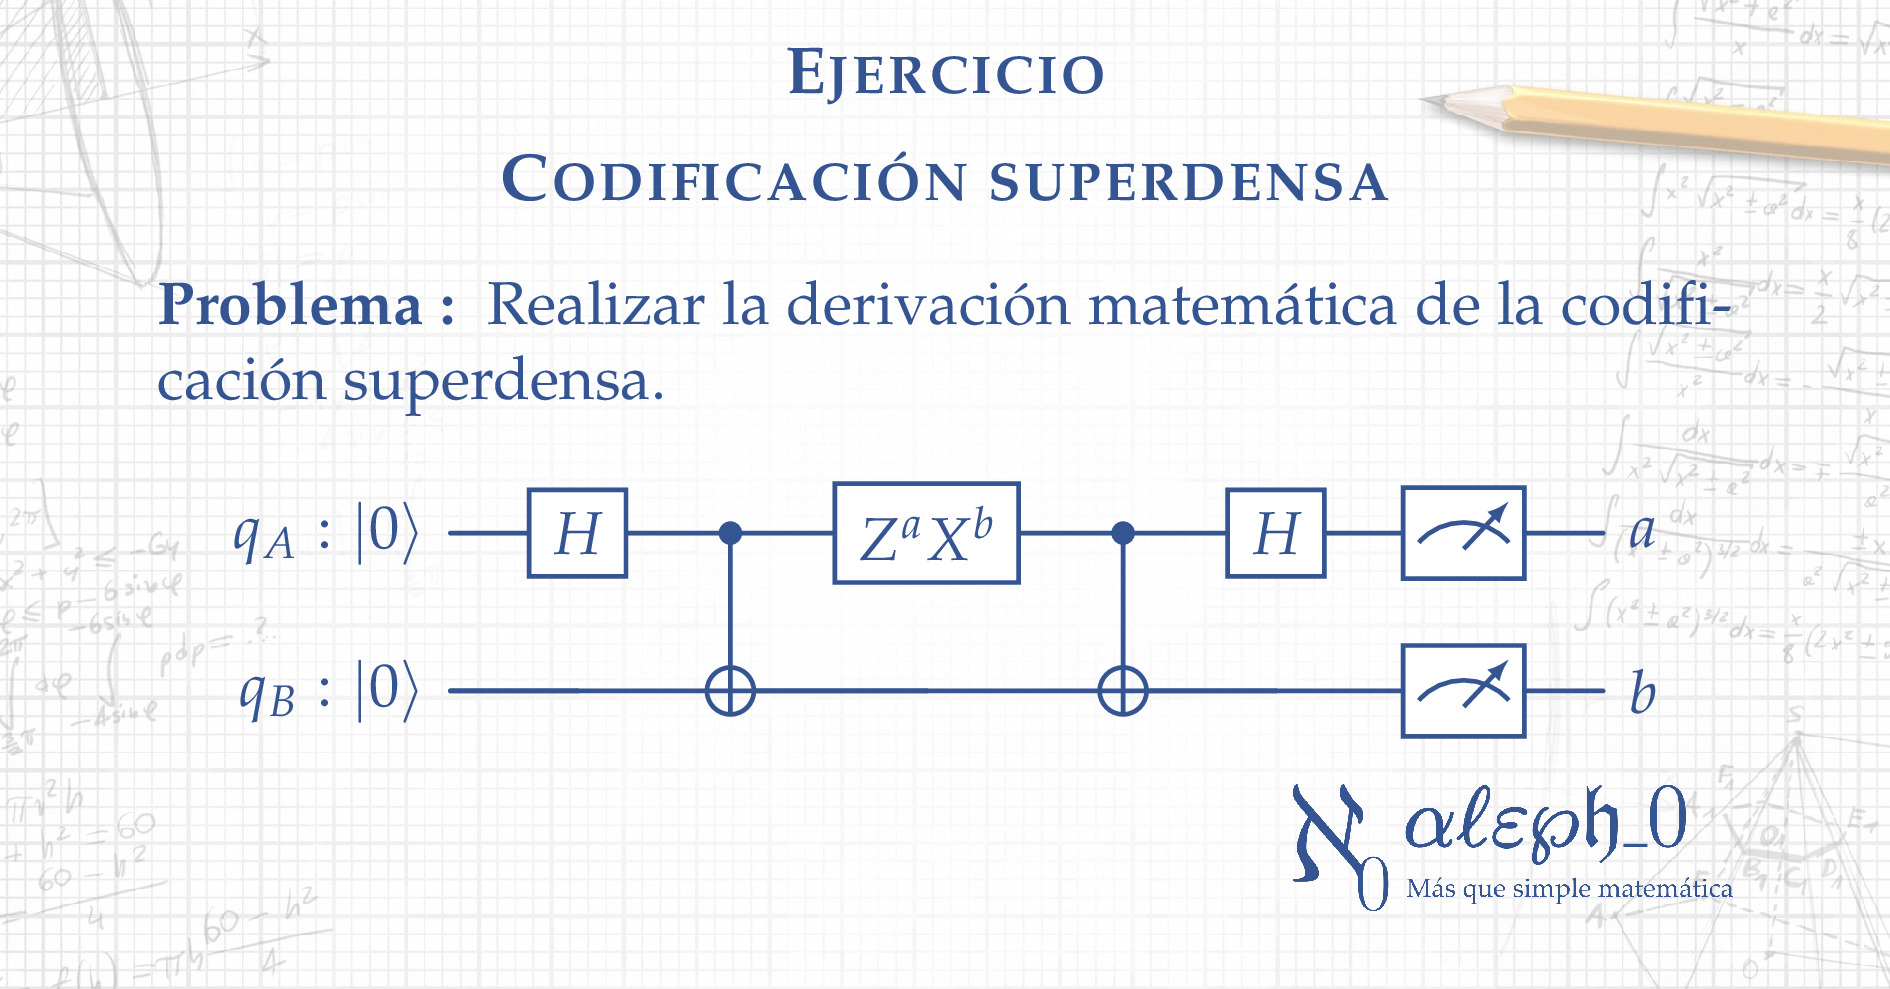
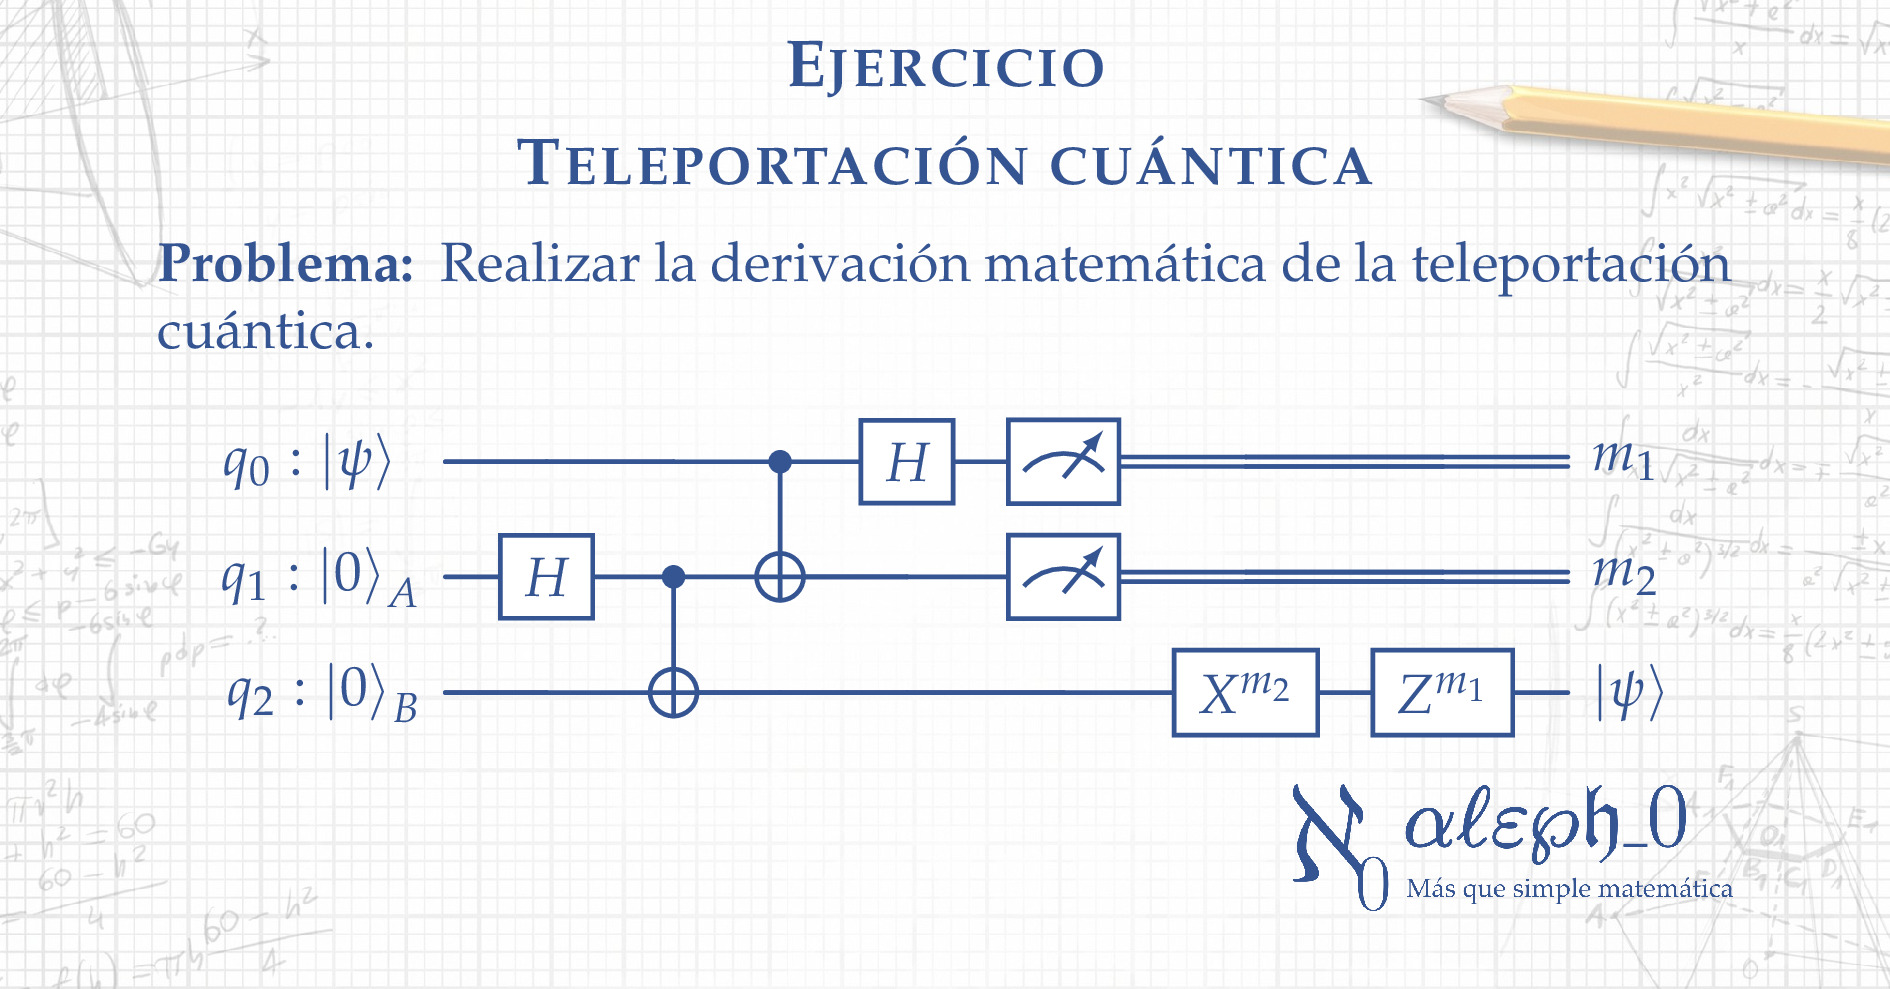
agrega post de teleportacion cuántica

diff --git a/CompCuantica/CC02Teleportacion.tex b/CompCuantica/CC02Teleportacion.tex
@@ -1,0 +1,191 @@
+\documentclass[a4,10pt]{aleph-notas}
+
+% -- Paquetes adicionales
+\usepackage{enumitem}
+\usepackage{aleph-comandos}
+\usepackage{quantikz}
+
+% -- Datos
+\institucion{Proyecto Alephsub0}
+\asignatura{Computación Cuántica}
+\tema{Teleportación cuántica}
+\autor{Andrés Merino}
+\fecha{Julio 2026}
+
+\fuente{montserrat}
+\logouno[4.5cm]{Logos/LogoAlephsub0-02}
+\definecolor{colordef}{cmyk}{0.81,0.62,0.00,0.22}
+
+% -- Comandos adicionales
+\newtheorem*{prob}{Problema}
+    \tcolorboxenvironment{prob}{%
+        color=colordef,recuadrost,colback=colordef!7,drop fuzzy shadow
+    }
+
+\begin{document}
+
+
+\encabezado
+
+La teleportación cuántica es un protocolo que permite transferir un estado
+cuántico desconocido desde un cúbit de Alice hacia un cúbit de Bob,
+utilizando un par entrelazado compartido y el envío de dos bits de
+información clásica.
+
+La idea es:
+\begin{itemize}
+    \item Alice posee un cúbit en el estado desconocido
+    \[
+        \ket{\psi}=\alpha\ket{0}+\beta\ket{1},
+        \qquad
+        |\alpha|^2+|\beta|^2=1.
+    \]
+    \item Alice y Bob comparten previamente un par entrelazado. Alice conserva
+    uno de los cúbits del par y Bob conserva el otro.
+    \item Alice aplica operaciones sobre su cúbit original y sobre su parte del
+    par entrelazado, y luego mide ambos cúbits.
+    \item Alice envía a Bob los dos bits clásicos obtenidos en la medición.
+    \item Bob aplica correcciones condicionadas por esos bits y recupera el
+    estado original \(\ket{\psi}\).
+\end{itemize}
+
+El circuito de teleportación cuántica es:
+\begin{center}
+    \includegraphics[width=0.75\textwidth]{imagen.png}
+\end{center}
+
+\begin{prob}
+    Realizar la derivación matemática de la teleportación cuántica.
+\end{prob}
+
+\begin{proof}
+    Sean \(q_0\), \(q_1\) y \(q_2\) los cúbits del circuito. El cúbit \(q_0\) contiene el estado desconocido que se desea teleportar:
+    \[
+        \ket{\psi}=\alpha\ket{0}+\beta\ket{1},
+    \]
+    donde
+    \[
+        |\alpha|^2+|\beta|^2=1.
+    \]
+    Los cúbits \(q_1\) y \(q_2\) se encuentran inicialmente en el estado \(\ket{0}\). Por tanto, el estado inicial del sistema es
+    \[
+        \ket{\Psi_0}=\ket{\psi}\ket{00}=\left(\alpha\ket{0}+\beta\ket{1}\right)\ket{00}.
+    \]
+    Alice posee los cúbits \(q_0\) y \(q_1\), mientras que Bob posee el cúbit \(q_2\).
+
+    Consideremos los siguientes pasos del circuito:
+    \begin{center}
+        \includegraphics[width=0.8\textwidth]{imagen2.png}
+    \end{center}
+
+    \begin{itemize}
+        \item \textbf{Paso 1.} Se aplica la compuerta Hadamard al cúbit \(q_1\):
+        \[
+            \ket{\Psi_1}=(I\otimes H\otimes I)\ket{\Psi_0}.
+        \]
+        Como
+        $
+            H\ket{0}=\frac{1}{\sqrt{2}}\left(\ket{0}+\ket{1}\right),
+        $
+        se obtiene
+        \begin{align*}
+            \ket{\Psi_1}
+            &=\left(\alpha\ket{0}+\beta\ket{1}\right)\otimes\frac{1}{\sqrt{2}}\left(\ket{0}+\ket{1}\right)\otimes\ket{0}\\
+            &=\frac{1}{\sqrt{2}}\left(\alpha\ket{000}+\alpha\ket{010}+\beta\ket{100}+\beta\ket{110}\right).
+        \end{align*}
+
+        \item \textbf{Paso 2.} Se aplica una compuerta CNOT, utilizando \(q_1\) como control y \(q_2\) como objetivo:
+        \[
+            \ket{\Psi_2}=\operatorname{CNOT}_{1,2}\ket{\Psi_1}.
+        \]
+        Por tanto,
+        \[
+            \ket{\Psi_2}=\frac{1}{\sqrt{2}}\left(\alpha\ket{000}+\alpha\ket{011}+\beta\ket{100}+\beta\ket{111}\right).
+        \]
+        El segundo cúbit se entrega a Alice y el tercero a Bob.
+
+        \item \textbf{Paso 3.} Alice aplica una compuerta CNOT, utilizando \(q_0\) como control y \(q_1\) como objetivo:
+        \[
+            \ket{\Psi_3}=\operatorname{CNOT}_{0,1}\ket{\Psi_2}.
+        \]
+        En consecuencia,
+        \[
+            \ket{\Psi_3}=\frac{1}{\sqrt{2}}\left(\alpha\ket{000}+\alpha\ket{011}+\beta\ket{110}+\beta\ket{101}\right).
+        \]
+
+        \item \textbf{Paso 4.} Alice aplica la compuerta Hadamard al cúbit \(q_0\):
+        \[
+            \ket{\Psi_4}=(H\otimes I\otimes I)\ket{\Psi_3}.
+        \]
+        Usando que
+        $
+            H\ket{0}=\frac{\ket{0}+\ket{1}}{\sqrt{2}},
+            $ $H\ket{1}=\frac{\ket{0}-\ket{1}}{\sqrt{2}},
+        $
+        se obtiene
+        \begin{align*}
+            \ket{\Psi_4}=\frac{1}{2}\big(&\alpha\ket{000}+\alpha\ket{100}+\alpha\ket{011}+\alpha\ket{111}\\
+            &+\beta\ket{010}-\beta\ket{110}+\beta\ket{001}-\beta\ket{101}\big).
+        \end{align*}
+        Agrupando los términos de acuerdo con los dos primeros cúbits,
+        \begin{align*}
+            \ket{\Psi_4}=\frac{1}{2}\big(&\ket{00}\left(\alpha\ket{0}+\beta\ket{1}\right)+\ket{01}\left(\alpha\ket{1}+\beta\ket{0}\right)\\
+            &+\ket{10}\left(\alpha\ket{0}-\beta\ket{1}\right)+\ket{11}\left(\alpha\ket{1}-\beta\ket{0}\right)\big).
+        \end{align*}
+        Utilizando las compuertas de Pauli, esta expresión puede escribirse como
+        \[
+            \ket{\Psi_4}=\frac{1}{2}\big(\ket{00}\ket{\psi}+\ket{01}X\ket{\psi}+\ket{10}Z\ket{\psi}+\ket{11}XZ\ket{\psi}\big).
+        \]
+
+        \item \textbf{Paso 5.} Alice mide los cúbits \(q_0\) u $q_1$ en la base computacional y obtiene los bits clásicos \(m_1,m_2\in\{0,1\}\).
+
+        Después de las mediciones, el cúbit \(q_2\) de Bob se encuentra en uno de los siguientes estados:
+        \[
+            \begin{array}{c|c}
+                m_1m_2 & \text{Estado del cúbit }q_2\\
+                \hline
+                00 & \ket{\psi}\\
+                01 & X\ket{\psi}\\
+                10 & Z\ket{\psi}\\
+                11 & XZ\ket{\psi}
+            \end{array}
+        \]
+        Es decir,
+        \[
+            \ket{q_2}=X^{m_2}Z^{m_1}\ket{\psi}.
+        \]
+
+        Alice envía a Bob los bits clásicos \(m_1\) y \(m_2\). Estos bits indican las correcciones que Bob debe aplicar.
+
+        \item \textbf{Paso 6.} Bob aplica la compuerta \(X^{m_2}\) al cúbit \(q_2\). Como \(X^2=I\), se obtiene
+        \[
+            X^{m_2}\ket{q_2}=X^{m_2}X^{m_2}Z^{m_1}\ket{\psi}=Z^{m_1}\ket{\psi}.
+        \]
+        En particular,
+        \[
+            \begin{array}{c|c}
+                m_1m_2 & \text{Estado después de aplicar }X^{m_2}\\
+                \hline
+                00 & \ket{\psi}\\
+                01 & \ket{\psi}\\
+                10 & Z\ket{\psi}\\
+                11 & Z\ket{\psi}
+            \end{array}
+        \]
+
+        \item \textbf{Paso 7.} Finalmente, Bob aplica la compuerta \(Z^{m_1}\). Como \(Z^2=I\), resulta
+        \begin{align*}
+            Z^{m_1}X^{m_2}\ket{q_2}
+            &=Z^{m_1}Z^{m_1}\ket{\psi}\\
+            &=\ket{\psi}\\
+            &=\alpha\ket{0}+\beta\ket{1}.
+        \end{align*}
+    \end{itemize}
+
+    En consecuencia, el estado desconocido que se encontraba inicialmente en el cúbit \(q_0\) de Alice queda reconstruido en el cúbit \(q_2\) de Bob. El estado cuántico no se copia: el estado original desaparece como consecuencia de la medición y se reconstruye en el cúbit de Bob mediante el uso de un par entrelazado y la transmisión de dos bits clásicos.
+\end{proof}
+
+
+
+
+\end{document}

diff --git a/Portada.tex b/Portada.tex
@@ -1,4 +1,4 @@
-\documentclass[11pt]{article}
+\documentclass[10pt]{article}
 
 % Importar la configuración
 % \input{formatoPortadaC}
@@ -7,32 +7,45 @@
 
 \begin{document}
 
-\titulo{Codificación superdensa}
+\titulo{Teleportación cuántica}
 
-\problema[1mm]{}{
-    Realizar la derivación matemática de la codificación superdensa.
+\problema[0mm]{
+    Realizar la derivación matemática de la teleportación cuántica.
 \begin{center}
-\begin{quantikz}[row sep=0.4cm, column sep=0.5cm, 
+\begin{quantikz}[row sep=0.2cm, column sep=0.35cm, 
     % slice all, slice style={draw=teal}
     ]
-    \lstick{$q_A:\ket{0}$}
-        & \gate{H}
-        & \ctrl{1}
-        & \gate{Z^aX^b}
-        % \slice{envío de cúbit}
+    \lstick{$q_0:\ket{\psi}\phantom{_i}$}
+        & \qw
+        & \qw
         & \ctrl{1}
         & \gate{H}
+        % \slice{Medición de Alice}
         & \meter{}
-        & \rstick{$a$}
+        & \setwiretype{c}
+        & \cw
+        & \rstick{$m_1$}
         \\
-    \lstick{$q_B:\ket{0}$}
-        & \qw
-        & \targ{}
-        & \qw
+    \lstick{$q_1:\ket{0}_A$}
+        & \gate{H}
+        & \ctrl{1}
+        % \slice{distribución de cúbits}
         & \targ{}
         & \qw
         & \meter{}
-        & \rstick{$b$}
+        & \setwiretype{c}
+        & \cw
+        & \rstick{$m_2$}
+        \\
+    \lstick{$q_2:\ket{0}_B$}
+        & \qw
+        & \targ{}
+        & \qw
+        & \qw
+        & \qw
+        & \gate{X^{m_2}}
+        & \gate{Z^{m_1}}
+        & \rstick{$\ket{\psi}$}
 \end{quantikz}
 \end{center}
 }

diff --git a/formatoPortadaC.tex b/formatoPortadaC.tex
@@ -39,10 +39,10 @@
     \end{center}
 }
 
-\newcommand{\problema}[3][\fill]{
+\newcommand{\problema}[2][\fill]{
     \vspace*{#1}
     \noindent
-    \textbf{Problema #2:} #3
+    \textbf{Problema:} #2
 }
 
 \newcommand{\logo}{

diff --git a/formatoPortadaR.tex b/formatoPortadaR.tex
@@ -40,10 +40,10 @@
     \end{center}
 }
 
-\newcommand{\problema}[3][\fill]{
+\newcommand{\problema}[2][\fill]{
     \vspace*{#1}
     \noindent
-    \textbf{Problema #2:} #3
+    \textbf{Problema:} #2
 }
 
 \newcommand{\logo}{
